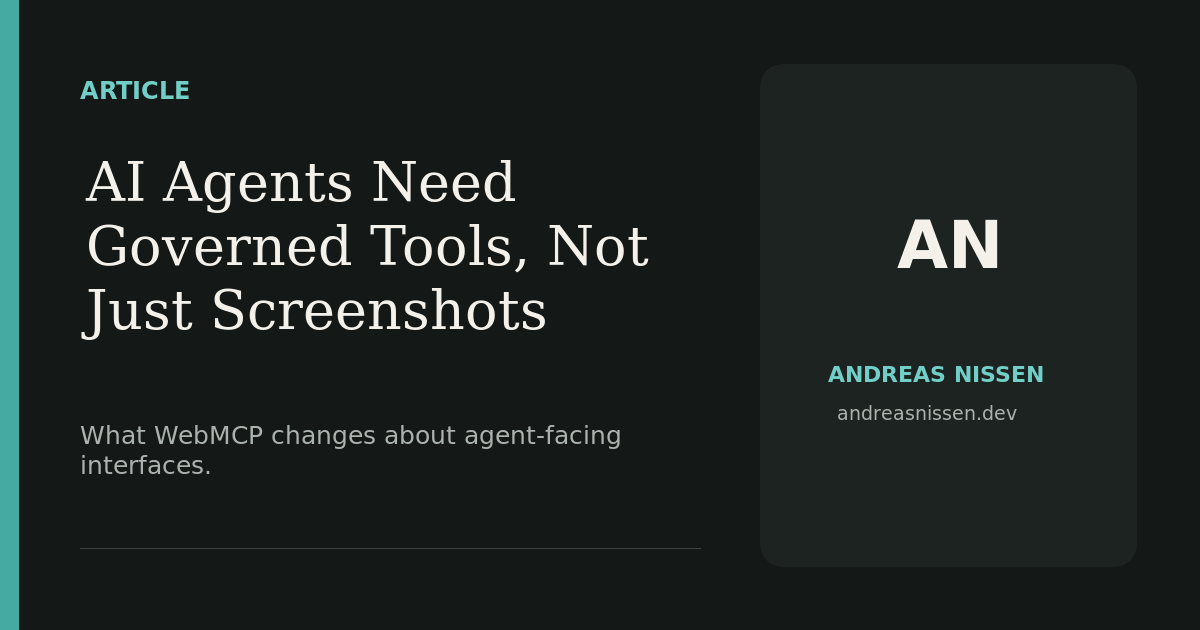
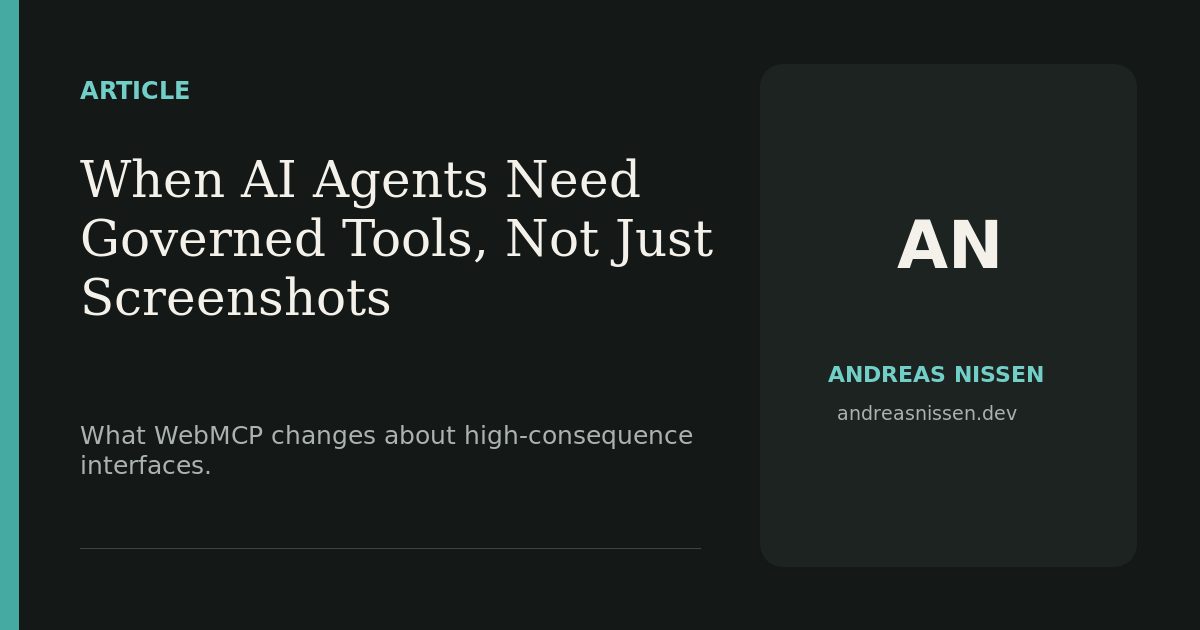
content: scope the governed-tools title

Changed region(s): [[0.0617, 0.2413, 0.5858, 0.5429], [0.37, 0.6635, 0.5858, 0.7238]]

diff --git a/content/writing/from-screenshots-to-governed-tools.md b/content/writing/from-screenshots-to-governed-tools.md
@@ -1,5 +1,5 @@
 ---
-title: "AI Agents Need Governed Tools, Not Just Screenshots"
+title: "When AI Agents Need Governed Tools, Not Just Screenshots"
 date: 2026-08-29
 description: "Agent-friendly interfaces should expose structured operations without taking the human operator out of the loop."
 primaryTopic: "Tool interfaces"
@@ -16,7 +16,7 @@ proofLinks:
   - label: "Review its contract tests"
     url: "https://github.com/Andreasniss/runbook-relay-webmcp/blob/main/tests/app-contract.test.mjs"
 socialImage: "/images/social/governed-tools.png"
-socialImageAlt: "AI Agents Need Governed Tools, Not Just Screenshots, an article by Andreas Nissen."
+socialImageAlt: "When AI Agents Need Governed Tools, Not Just Screenshots, an article by Andreas Nissen."
 tags:
   - WebMCP
   - tool design
